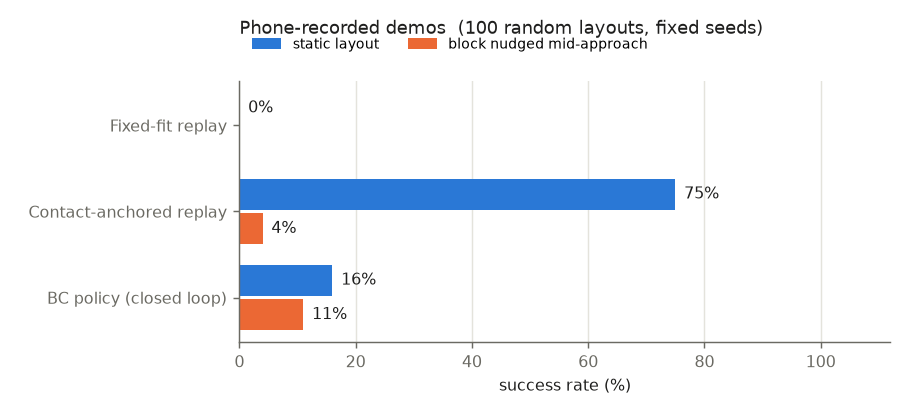
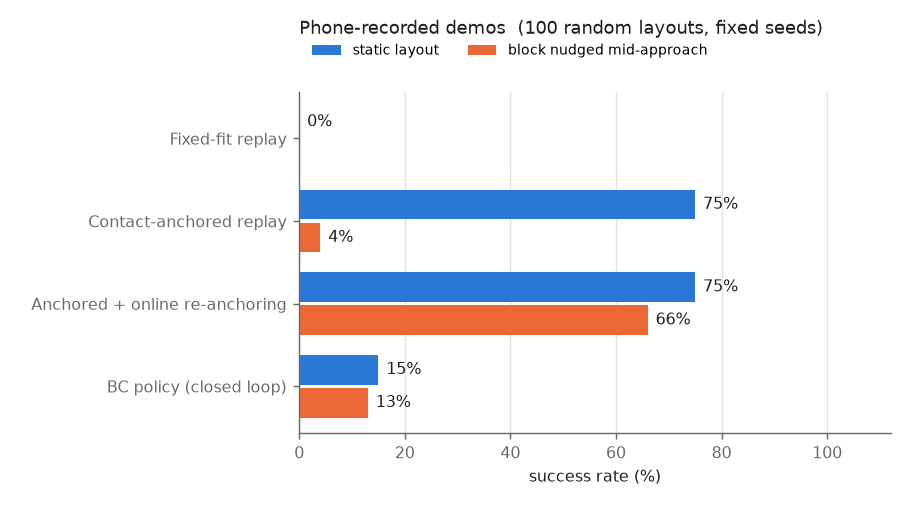
Online re-anchoring to the observed block as a closed-loop controller
Re-anchor the remaining plan whenever the observed block is more than 1 cm from the
current anchor before the grasp closes. 75% static, 66% with a mid-approach nudge
(open-loop replay 4%, BC 13%). Results regenerated with make demo.

Changed region(s): [[0.0308, 0.1875, 0.9846, 0.9688], [0.2769, 0.0312, 0.9231, 0.125]]

diff --git a/touchpoint/rollout.py b/touchpoint/rollout.py
@@ -5,6 +5,7 @@ from .retarget import reanchor
 from .sim import X_RANGE, Y_RANGE
 
 NUDGE = 0.05
+REANCHOR_TOL = 0.01
 LABEL_LEAD = 3
 RELEASE_LEAD = 6
 LOOKAHEAD = 8
@@ -35,19 +36,29 @@ def obs_vec(o):
     return np.r_[tcp, cube - tcp, mug[:2] - tcp[:2], mug[:2] - cube[:2], o["width"] / 0.08].astype(np.float32)
 
 
-def run_plan(env, layout, plan, nudge_rng=None, replan=False, noise=0.0, rng=None, frames=None):
+def run_plan(env, layout, plan, nudge_rng=None, replan=False, noise=0.0, rng=None, frames=None,
+             track_cube=False):
     """Open-loop execution of a retargeted plan. With replan=True the plan is re-anchored when
     the cube is nudged (that is the expert used to label recovery data).
+    With track_cube=True the plan is re-anchored from the observed cube pose at every step
+    before the grasp closes, whenever it is more than REANCHOR_TOL from the current anchor
+    (closed loop, no learning).
     Returns success flag and (obs, action) pairs labelled with the clean plan."""
     env.reset(layout)
     obs, acts = [], []
     nst = {"done": nudge_rng is None}
+    anchor = np.asarray(layout["cube"], float)[:2].copy()
     i = 0
     while i < len(plan["ref"]):
         if nudge_rng is not None and i < plan["grasp_step"]:
             moved = _maybe_nudge(env, nudge_rng, nst)
             if moved and replan:
                 plan = reanchor(plan, i, moved[1], moved[0])
+        if track_cube and i <= plan["grasp_step"]:
+            seen = env.obs()["cube"][:2]
+            if np.linalg.norm(seen - anchor) > REANCHOR_TOL:
+                plan = reanchor(plan, i, seen, anchor)
+                anchor = seen.copy()
         o = env.obs()
         target, grip = plan["ref"][i], plan["grip"][i]
         obs.append(obs_vec(o))

diff --git a/touchpoint/viz.py b/touchpoint/viz.py
@@ -89,8 +89,9 @@ def phase_plot(track, plan, widths, out_path):
 def results_chart(metrics, n, out_path, title):
     rows = [("Fixed-fit replay", "fixed_fit", None),
             ("Contact-anchored replay", "anchored", "anchored_nudged"),
+            ("Anchored + online re-anchoring", "reanchor", "reanchor_nudged"),
             ("BC policy (closed loop)", "bc", "bc_nudged")]
-    fig, ax = plt.subplots(figsize=(7, 3.2))
+    fig, ax = plt.subplots(figsize=(7, 3.9))
     y = np.arange(len(rows))[::-1]
     h = 0.36
     for yi, (label, a, b) in zip(y, rows):
@@ -102,7 +103,7 @@ def results_chart(metrics, n, out_path, title):
     ax.set_yticks(y, [r[0] for r in rows], fontsize=9, color=INK)
     ax.set_xlim(0, 112)
     ax.set_xlabel("success rate (%)", fontsize=9, color=INK)
-    ax.set_title(f"{title}  ({n} random layouts, fixed seeds)", loc="left", fontsize=10, color=INK, pad=26)
+    ax.set_title(f"{title}  ({n} random layouts, fixed seeds)", loc="left", fontsize=10, color=INK, pad=32)
     ax.legend(fontsize=8, frameon=False, loc="lower left", bbox_to_anchor=(0.0, 1.06), ncol=2)
     _style(ax)
     ax.grid(axis="x", color=GRID, lw=0.8)

diff --git a/touchpoint/evaluate.py b/touchpoint/evaluate.py
@@ -13,8 +13,10 @@ EVAL_SEED = 12345
 METHODS = [
     ("fixed_fit", False, "Fixed-fit replay (one global fit, no anchoring)"),
     ("anchored", False, "Contact-anchored replay (open loop)"),
+    ("reanchor", False, "Contact-anchored replay with online re-anchoring (closed loop, no learning)"),
     ("bc", False, "BC policy (closed loop)"),
     ("anchored", True, "Contact-anchored replay (open loop)"),
+    ("reanchor", True, "Contact-anchored replay with online re-anchoring (closed loop, no learning)"),
     ("bc", True, "BC policy (closed loop)"),
 ]
 
@@ -45,7 +47,7 @@ def _eval_worker(args):
             else:
                 plan = (fixed_fit_plan(track, env.home_tcp) if name == "fixed_fit"
                         else retarget(track, layout["cube"], layout["mug"], env.home_tcp))
-                res[key] = run_plan(env, layout, plan, nudge_rng=nudge)[0]
+                res[key] = run_plan(env, layout, plan, nudge_rng=nudge, track_cube=name == "reanchor")[0]
         rows.append(res)
     return rows
 

diff --git a/README.md b/README.md
@@ -7,7 +7,9 @@ I filmed my hand dropping small plastic discs into a mug with a handheld phone (
 trajectory in a mug-centred frame, and the two contact moments (fingers close on a disc, fingers
 open over the mug) are pinned to the object and the mug in the simulator. Everything between the
 anchors keeps the shape and timing of my hand. Because the anchors can be placed anywhere, the
-13 episodes become hundreds of robot demonstrations, which train a closed-loop policy.
+13 episodes become hundreds of robot demonstrations, which train a closed-loop policy. The same
+re-anchoring, applied online to the observed block pose, is also a closed-loop controller with no
+learning, and it is the method that holds up when the block is moved.
 
 ![side by side](docs/side_by_side.gif)
 
@@ -93,23 +95,30 @@ to it, finger width) to a velocity command and a gripper logit.
 ## Results
 
 Success over 100 random block/mug layouts with fixed seeds; each layout replays one of the 13
-episodes. "Nudged" moves the block 5 cm when the gripper is within 8 cm of it.
+episodes. "Nudged" moves the block 5 cm when the gripper is within 8 cm of it. Online
+re-anchoring runs the same retargeted episode, but at every step before the grasp closes it
+compares the observed block position with the current anchor and, if they differ by more than
+1 cm, re-anchors the rest of the plan with `reanchor` (`touchpoint/retarget.py`).
 
 | Method | Block nudged mid-approach | Success |
 |---|---|---|
 | Fixed-fit replay (one global fit, no anchoring) | no | 0% |
 | Contact-anchored replay (open loop) | no | 75% |
-| BC policy (closed loop) | no | 16% |
+| Contact-anchored replay with online re-anchoring (closed loop, no learning) | no | 75% |
+| BC policy (closed loop) | no | 15% |
 | Contact-anchored replay (open loop) | yes | 4% |
-| BC policy (closed loop) | yes | 11% |
+| Contact-anchored replay with online re-anchoring (closed loop, no learning) | yes | 66% |
+| BC policy (closed loop) | yes | 13% |
 
 100 random layouts, fixed seeds.
 
 ![results](docs/results.png)
 
 Reading the table: anchoring is what makes the human episodes usable at all (0% -> 75%), and
-the open-loop replay has no way to react when the block moves (4%). The BC policy is the weak
-part on real data: it reacts to the nudge (11% vs 4%) but succeeds in only 16% of static
+the open-loop replay has no way to react when the block moves (4%). Re-anchoring the plan online
+to the observed block recovers most of the nudged cases (66%, vs 75% static), without any
+learning. The BC policy is the weak
+part on real data: it reacts to the nudge (13% vs 4%) but succeeds in only 15% of static
 layouts. On synthetic side-view tracks the same method reached 78% (earlier scene with a bowl and a cube), so the gap comes from
 the 13 real episodes being far less consistent (different approach paths, heights and pauses);
 a single MLP averages them and misses the block by a few centimetres or closes too early.
@@ -126,6 +135,8 @@ It is a pipeline check used by the tests; its numbers are not reported as result
   without camera calibration.
 - The mug as a moving reference. It removes the handheld drift and gives metric scale per frame.
 - Re-anchoring as the expert: the same mapping re-plans after a nudge and labels recoveries.
+- Re-anchoring as the controller: running it online against the observed block pose takes the
+  nudged success from 4% to 66% with no training; the BC policy gets 13%.
 - Velocity labels over an 8-step lookahead and dropping frames where the plan waits; without them
   the policy copied the pauses and stalled at the object.
 
@@ -135,7 +146,7 @@ It is a pipeline check used by the tests; its numbers are not reported as result
   height made the arm clip the mug rim or sweep the block off the table.
 - Episode splitting finds 13 of the 14 episodes; one in clip02 merges two drops into one long
   episode, and a few episodes have poor grasp timing and fail even open loop.
-- The BC policy does not reach the replay's success rate (see Results). Things tried that did not
+- The BC policy does not reach the replay's success rate, open loop or re-anchored (see Results). Things tried that did not
   help: 1000 instead of 600 demos, lower DART noise, extra features relative to the measured TCP.
   Likely fixes: action chunking or a diffusion/flow head for the multi-modal demos, conditioning on
   the episode, or filtering the episodes that replay unreliably.

diff --git a/results/real/metrics.md b/results/real/metrics.md
@@ -4,8 +4,10 @@
 |---|---|---|
 | Fixed-fit replay (one global fit, no anchoring) | no | 0% |
 | Contact-anchored replay (open loop) | no | 75% |
-| BC policy (closed loop) | no | 16% |
+| Contact-anchored replay with online re-anchoring (closed loop, no learning) | no | 75% |
+| BC policy (closed loop) | no | 15% |
 | Contact-anchored replay (open loop) | yes | 4% |
-| BC policy (closed loop) | yes | 11% |
+| Contact-anchored replay with online re-anchoring (closed loop, no learning) | yes | 66% |
+| BC policy (closed loop) | yes | 13% |
 
 100 random layouts, fixed seeds.
